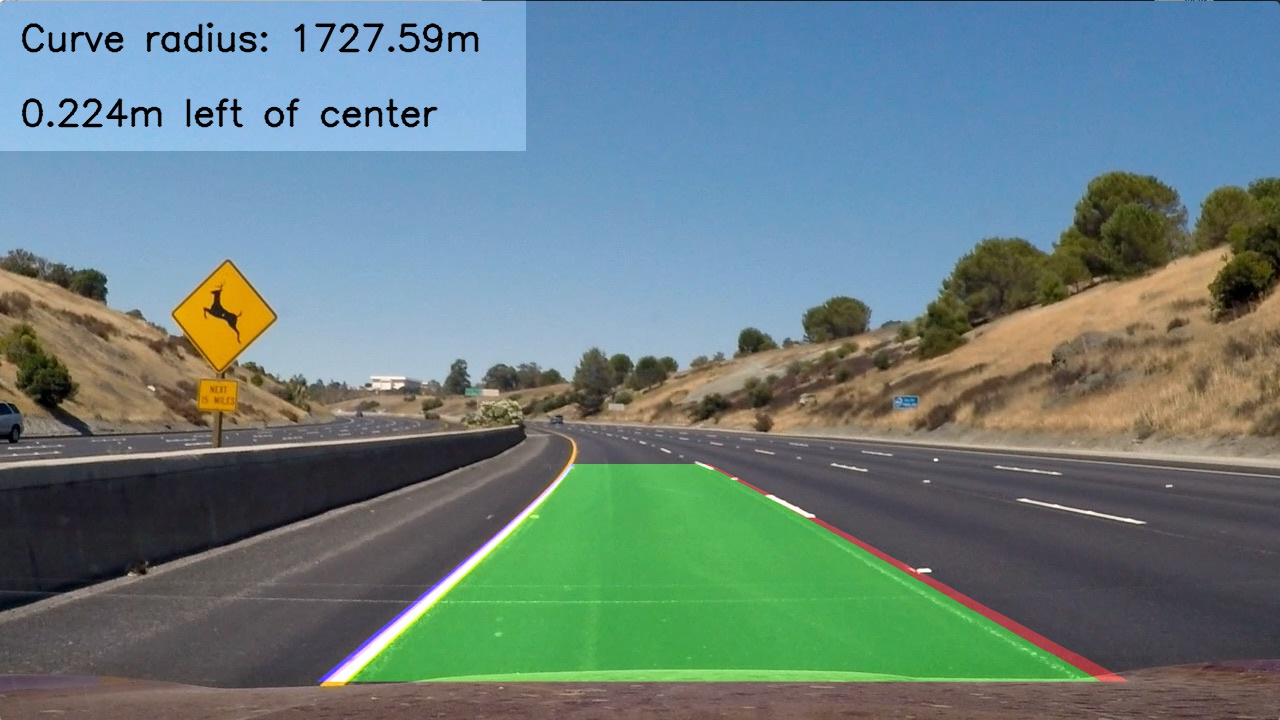
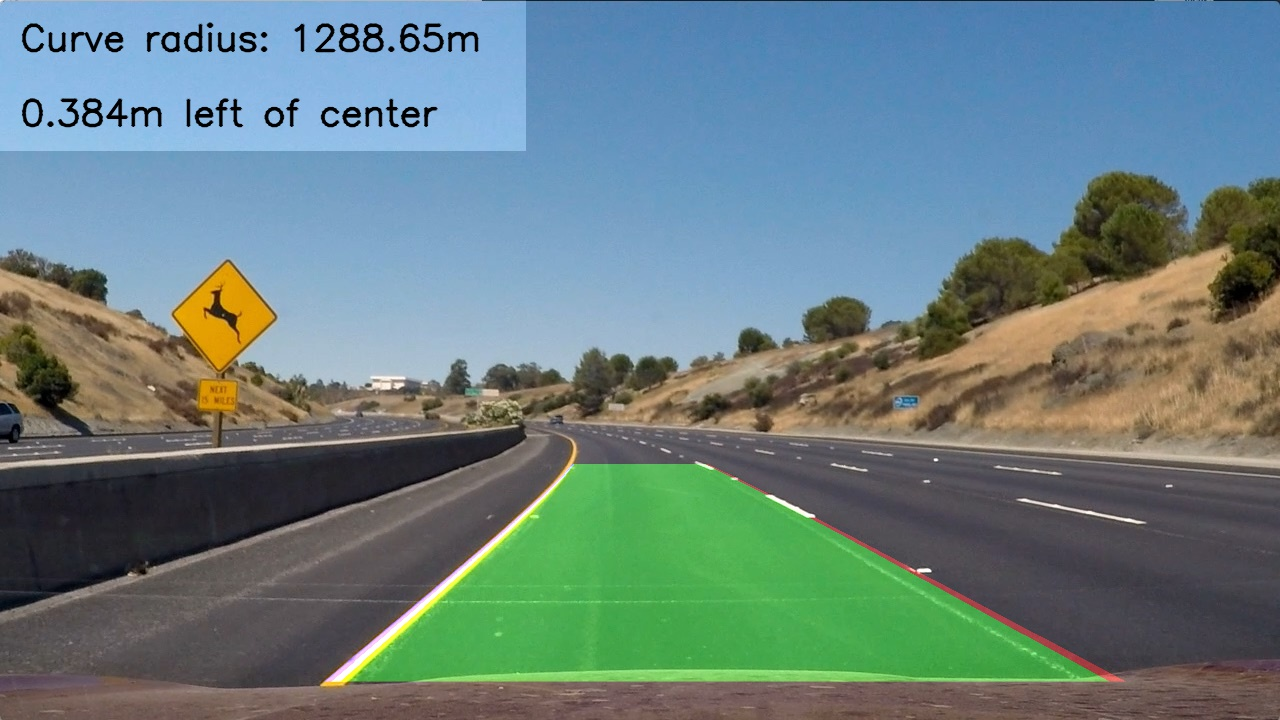
added multiple sections

diff --git a/adv_lane_lines.py b/adv_lane_lines.py
@@ -1,12 +1,12 @@
 #importing some useful packages
-import matplotlib.pyplot as plt
-import matplotlib.image as mpimg
+#import matplotlib.pyplot as plt
+#import matplotlib.image as mpimg
 import numpy as np
 import cv2
 import os
-import cv2
-from PIL import Image
-import math
+#import cv2
+#from PIL import Image
+#import math
 import fnmatch
 import glob
 import pickle
@@ -193,6 +193,47 @@ def region_of_interest(img, vertices):
 
 #input_imgs = glob.glob(os.getcwd() + '/test_images/test*.jpg')
 #input_imgs = glob.glob(os.getcwd() + '/test_images/straight_lines*.jpg')
+def window_mask(width, height, img_ref, center,level):
+        output = np.zeros_like(img_ref)
+        output[int(img_ref.shape[0]-(level+1)*height):int(img_ref.shape[0]-level*height),max(0,int(center-width/2)):min(int(center+width/2),img_ref.shape[1])] = 1
+        return output
+    
+def find_window_centroids(image, window_width, window_height, margin):
+    
+    window_centroids = [] # Store the (left,right) window centroid positions per level
+    window = np.ones(window_width) # Create our window template that we will use for convolutions
+    
+    # First find the two starting positions for the left and right lane by using np.sum to get the vertical image slice
+    # and then np.convolve the vertical image slice with the window template 
+    
+    # Sum quarter bottom of image to get slice, could use a different ratio
+    l_sum = np.sum(image[int(3*image.shape[0]/4):,:int(image.shape[1]/2)], axis=0)
+    l_center = np.argmax(np.convolve(window,l_sum))-window_width/2
+    r_sum = np.sum(image[int(3*image.shape[0]/4):,int(image.shape[1]/2):], axis=0)
+    r_center = np.argmax(np.convolve(window,r_sum))-window_width/2+int(image.shape[1]/2)
+    
+    # Add what we found for the first layer
+    window_centroids.append((l_center,r_center))
+    
+    # Go through each layer looking for max pixel locations
+    for level in range(1,(int)(image.shape[0]/window_height)):
+	    # convolve the window into the vertical slice of the image
+	    image_layer = np.sum(image[int(image.shape[0]-(level+1)*window_height):int(image.shape[0]-level*window_height),:], axis=0)
+	    conv_signal = np.convolve(window, image_layer)
+	    # Find the best left centroid by using past left center as a reference
+	    # Use window_width/2 as offset because convolution signal reference is at right side of window, not center of window
+	    offset = window_width/2
+	    l_min_index = int(max(l_center+offset-margin,0))
+	    l_max_index = int(min(l_center+offset+margin,image.shape[1]))
+	    l_center = np.argmax(conv_signal[l_min_index:l_max_index])+l_min_index-offset
+	    # Find the best right centroid by using past right center as a reference
+	    r_min_index = int(max(r_center+offset-margin,0))
+	    r_max_index = int(min(r_center+offset+margin,image.shape[1]))
+	    r_center = np.argmax(conv_signal[r_min_index:r_max_index])+r_min_index-offset
+	    # Add what we found for that layer
+	    window_centroids.append((l_center,r_center))
+
+    return window_centroids
 
 def process_image(fname):
     #img = cv2.imread(fname)
@@ -223,15 +264,15 @@ def process_image(fname):
     #combined[(gradx == 1) | ((mag_binary == 1) & (dir_binary == 1)) | (color_binary == 1)] = 255
     # Plot the result
     inp_img = cv2.imread(os.getcwd() + '/output_images/thresh_F.jpg')
-    vertices = np.array([[(200,682),(550, 464), (775,464), (1200,682)]], dtype=np.int32) #was 725
-    masked_edges = region_of_interest(inp_img, vertices)
-    cv2.imwrite(os.getcwd() +'/output_images/'+'masked.jpg',masked_edges) 
-    inp_img = inp_img[:,:,::-1]
-    masked_edges=masked_edges[:,:,::-1]
-    inp_img = masked_edges
+    #vertices = np.array([[(200,682),(550, 464), (775,464), (1200,682)]], dtype=np.int32) #was 725
+    #masked_edges = region_of_interest(inp_img, vertices)
+    #cv2.imwrite(os.getcwd() +'/output_images/'+'masked.jpg',masked_edges) 
+    #inp_img = inp_img[:,:,::-1]
+    #masked_edges=masked_edges[:,:,::-1]
+    masked_edges = inp_img
     img_size = (inp_img.shape[1], inp_img.shape[0])
-    src = np.float32([[575,464],[707,464],[1049,682],[258,682]])
-    offset = 400 #300 wroks 
+    src = np.float32([[570,464],[710,464],[1084,682],[225,682]])
+    offset = 200 #300 wroks 
     dst = np.float32([[offset, 0], [img_size[0] - offset, 0], [img_size[0] - offset, img_size[1]], [offset, img_size[1]]])
     M = cv2.getPerspectiveTransform(src, dst)
     Minv = cv2.getPerspectiveTransform(dst, src)
@@ -239,51 +280,9 @@ def process_image(fname):
     cv2.imwrite(os.getcwd() +'/output_images/'+'warped.jpg',binary_warped) 
     binary_warped = cv2.cvtColor(binary_warped, cv2.COLOR_BGR2GRAY)
     # window settings
-    window_width = 25 
+    window_width = 40 
     window_height = 144 # Break image into 9 vertical layers since image height is 720
-    margin = 25 # How much to slide left and right for searching 25 works
-    
-    def window_mask(width, height, img_ref, center,level):
-        output = np.zeros_like(img_ref)
-        output[int(img_ref.shape[0]-(level+1)*height):int(img_ref.shape[0]-level*height),max(0,int(center-width/2)):min(int(center+width/2),img_ref.shape[1])] = 1
-        return output
-    
-    def find_window_centroids(image, window_width, window_height, margin):
-        
-        window_centroids = [] # Store the (left,right) window centroid positions per level
-        window = np.ones(window_width) # Create our window template that we will use for convolutions
-        
-        # First find the two starting positions for the left and right lane by using np.sum to get the vertical image slice
-        # and then np.convolve the vertical image slice with the window template 
-        
-        # Sum quarter bottom of image to get slice, could use a different ratio
-        l_sum = np.sum(binary_warped[int(3*binary_warped.shape[0]/4):,:int(binary_warped.shape[1]/2)], axis=0)
-        l_center = np.argmax(np.convolve(window,l_sum))-window_width/2
-        r_sum = np.sum(binary_warped[int(3*binary_warped.shape[0]/4):,int(binary_warped.shape[1]/2):], axis=0)
-        r_center = np.argmax(np.convolve(window,r_sum))-window_width/2+int(binary_warped.shape[1]/2)
-        
-        # Add what we found for the first layer
-        window_centroids.append((l_center,r_center))
-        
-        # Go through each layer looking for max pixel locations
-        for level in range(1,(int)(binary_warped.shape[0]/window_height)):
-    	    # convolve the window into the vertical slice of the image
-    	    image_layer = np.sum(binary_warped[int(binary_warped.shape[0]-(level+1)*window_height):int(binary_warped.shape[0]-level*window_height),:], axis=0)
-    	    conv_signal = np.convolve(window, image_layer)
-    	    # Find the best left centroid by using past left center as a reference
-    	    # Use window_width/2 as offset because convolution signal reference is at right side of window, not center of window
-    	    offset = window_width/2
-    	    l_min_index = int(max(l_center+offset-margin,0))
-    	    l_max_index = int(min(l_center+offset+margin,binary_warped.shape[1]))
-    	    l_center = np.argmax(conv_signal[l_min_index:l_max_index])+l_min_index-offset
-    	    # Find the best right centroid by using past right center as a reference
-    	    r_min_index = int(max(r_center+offset-margin,0))
-    	    r_max_index = int(min(r_center+offset+margin,binary_warped.shape[1]))
-    	    r_center = np.argmax(conv_signal[r_min_index:r_max_index])+r_min_index-offset
-    	    # Add what we found for that layer
-    	    window_centroids.append((l_center,r_center))
-    
-        return window_centroids
+    margin = 35 # How much to slide left and right for searching 25 works
     
     window_centroids = find_window_centroids(binary_warped, window_width, window_height, margin)
     
@@ -329,12 +328,29 @@ def process_image(fname):
     # Plot up the fake data
     # Fit a second order polynomial to pixel positions in each fake lane line
     leftx = leftx[::-1]  # Reverse to match top-to-bottom in y
-    rightx = rightx[::-1]  # Reverse to match top-to-bottom in y
-
+    rightx = rightx[::-1]  # Reverse to match top-to-bottom in y 
+    
     left_fit = np.polyfit(ploty, leftx, 2)
     left_fitx = left_fit[0]*ploty**2 + left_fit[1]*ploty + left_fit[2]
     right_fit = np.polyfit(ploty, rightx, 2)
-    right_fitx = right_fit[0]*ploty**2 + right_fit[1]*ploty + right_fit[2]
+    right_fitx = right_fit[0]*ploty**2 + right_fit[1]*ploty + right_fit[2]    
+    ###
+    lft_line = np.column_stack((left_fitx,ploty))
+    rt_line = np.column_stack((right_fitx,ploty))
+    #cv2.circle(output,tuple(leftx),1,(255,0,0))
+    for index in range(0,len(ploty)):
+        #print(index)
+        cv2.circle(output,(int(leftx[index]),int(ploty[index])),10,(255,0,0),-1)
+        cv2.circle(output,(int(rightx[index]),int(ploty[index])),10,(0,0,255),-1)
+    cv2.imwrite(os.getcwd() +'/output_images/'+'output_1.jpg',output) 
+    cv2.polylines(output,np.int32([lft_line]),False,(255,0,0),15)
+    cv2.polylines(output,np.int32([rt_line]),False,(0,0,255),15)
+    for index in range(0,len(ploty)):
+        #print(index)
+        cv2.circle(output,(int(leftx[index]),int(ploty[index])),10,(255,255,255))
+        cv2.circle(output,(int(rightx[index]),int(ploty[index])),10,(0,0,0))
+    cv2.imwrite(os.getcwd() +'/output_images/'+'output_2.jpg',output) 
+    ###
     y_eval = np.max(ploty)
     # Define conversions in x and y from pixels space to meters
     ym_per_pix = 30/720 # meters per pixel in y dimension
@@ -389,10 +405,10 @@ def process_image(fname):
     cv2.fillPoly(color_warp_3, np.int_([rect_pt]), (255,255,255))
     result = cv2.addWeighted(result, 1, color_warp_3, 0.15, 0)
     font = cv2.FONT_HERSHEY_SIMPLEX
-    if left_curverad > 10000:
+    if (left_curverad+right_curverad)/2 > 5000:
         text = '~Straight Road'
     else:
-        text = 'Curve radius: ' + '{:04.2f}'.format(left_curverad) + 'm'
+        text = 'Curve radius: ' + '{:04.2f}'.format((left_curverad+right_curverad)/2) + 'm'
     cv2.putText(result, text, (20,50), font, 1.2, (0,0,0), 2, cv2.LINE_AA)
     direction = ''
     if center_dist > 0:

diff --git a/README.md b/README.md
@@ -20,6 +20,10 @@ The goals / steps of this project are the following:
 [image5]: ./output_images/test2_undist.jpg "Undistorted Test Image"
 [image6]: ./output_images/test2_thresh_F.jpg "Thesholded Test Image"
 [image7]: ./output_images/test2_overlayed.jpg "Mask Overlayed Image"
+[image8]: ./output_images/test2_warped.jpg "Warped Image"
+[image9]: ./output_images/output.jpg "Lane Line Identifiers"
+[image10]: ./output_images/output_1.jpg "Centroids of Lane Lines"
+[image11]: ./output_images/output_2.jpg "Curvefitted Line"
 [video1]: ./project_video.mp4 "Video"
 
 ### Camera Calibration
@@ -80,9 +84,9 @@ The color thresholding uses the HLS and HSV colorspaces for applying thresholds 
 
 The code for perspective transform is built into the pipeline and uses an hardcoded source (src) and destination (dst) matrix. 
 
-```src = np.float32([[575,464],[707,464],[1049,682],[258,682]])```
+```src = np.float32([[570,464],[710,464],[1084,682],[225,682]])```
 ```
-offset = 250
+offset = 200
 dst = np.float32([[offset, 0], [img_size[0] - offset, 0], [img_size[0] - offset, img_size[1]], [offset, img_size[1]]])
 ```
 
@@ -90,20 +94,36 @@ This resulted in the following source and destination points:
 
 | Source        | Destination   | 
 |:-------------:|:-------------:| 
-| 575, 464      | 250, 0        | 
-| 707, 464      | 1030, 0      |
-| 1049, 682     | 1030, 720      |
-| 258, 682      | 250, 720        |
+| 570, 464      | 200, 0        | 
+| 710, 464      | 1080, 0       |
+| 1084, 682     | 1080, 720     |
+| 225, 682      | 200, 720      |
 
-I verified that my perspective transform was working as expected by drawing the `src` and `dst` points onto a test image and its warped counterpart to verify that the lines appear parallel in the warped image.
+To apply perspective transform, the 'M' matrix is first computed using ```M = cv2.getPerspectiveTransform(src, dst)```
+Similarly the Minv is also computed by swapping the src and dst matrices. 
 
-![alt text][image4]
+To warp an image the 'M' matrix is used with function ```cv2.warpPerspective``` 
+Lines 231 through 238 in my code perform the perspective transform
+
+| Source Points Overlayed | After applying Perspective Transform |
+|:---:|:---:|
+| ![alt text][image7] | ![alt text][image8] |
+
+*Figures show the bounding box used as source points and the resultant image after performing perspective transform*
 
 #### 4. Describe how (and identify where in your code) you identified lane-line pixels and fit their positions with a polynomial?
 
-Then I did some other stuff and fit my lane lines with a 2nd order polynomial kinda like this:
+The convolution method is used here to identify the lane lines. 
+Function ```find_window_centroids``` from line 201 thru	236 performs the image slicing, convolution to find the lane hotspots.
+The identified region is stored in left and right point matrices which are then used to perform a curvefit using ```np.polyfit``` of 2nd order.
+The curvefitted lines are the detected lane lines. 
 
-![alt text][image5]
+| Original Warped Image | Hot spots from the warped Image |
+|:---:|:---:|
+| ![alt text][image8] | ![alt text][image9] |
+| Centers of the regions of interest | Curvefitted line through the points |
+|:---:|:---:|
+| ![alt text][image10] | ![alt text][image11] |
 
 #### 5. Describe how (and identify where in your code) you calculated the radius of curvature of the lane and the position of the vehicle with respect to center.
 
